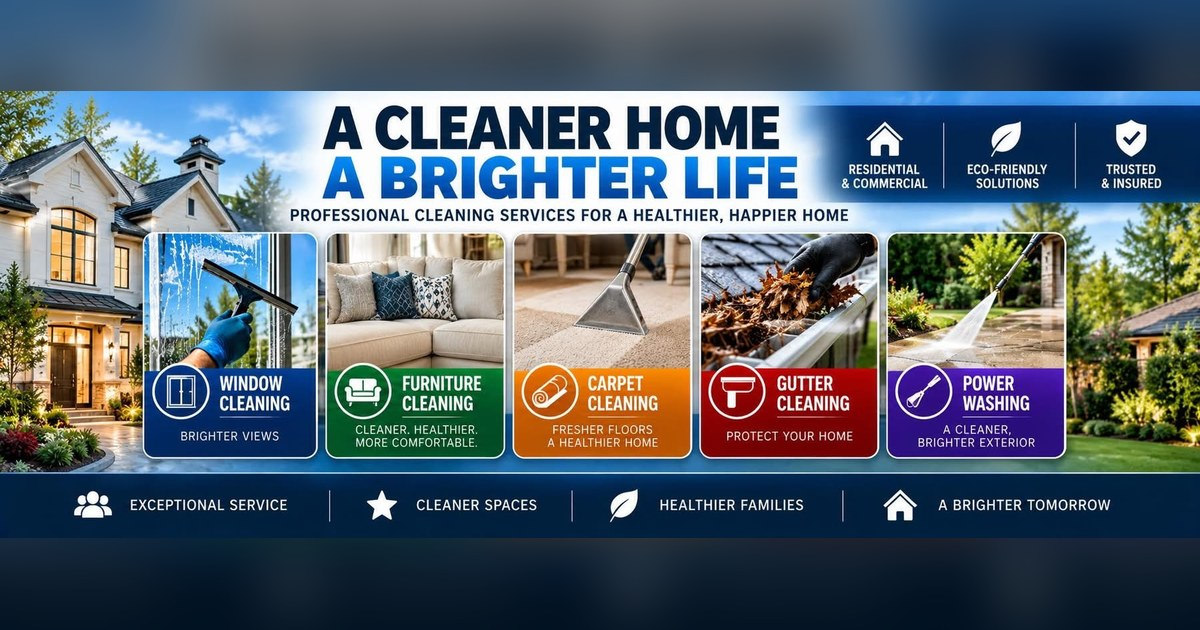
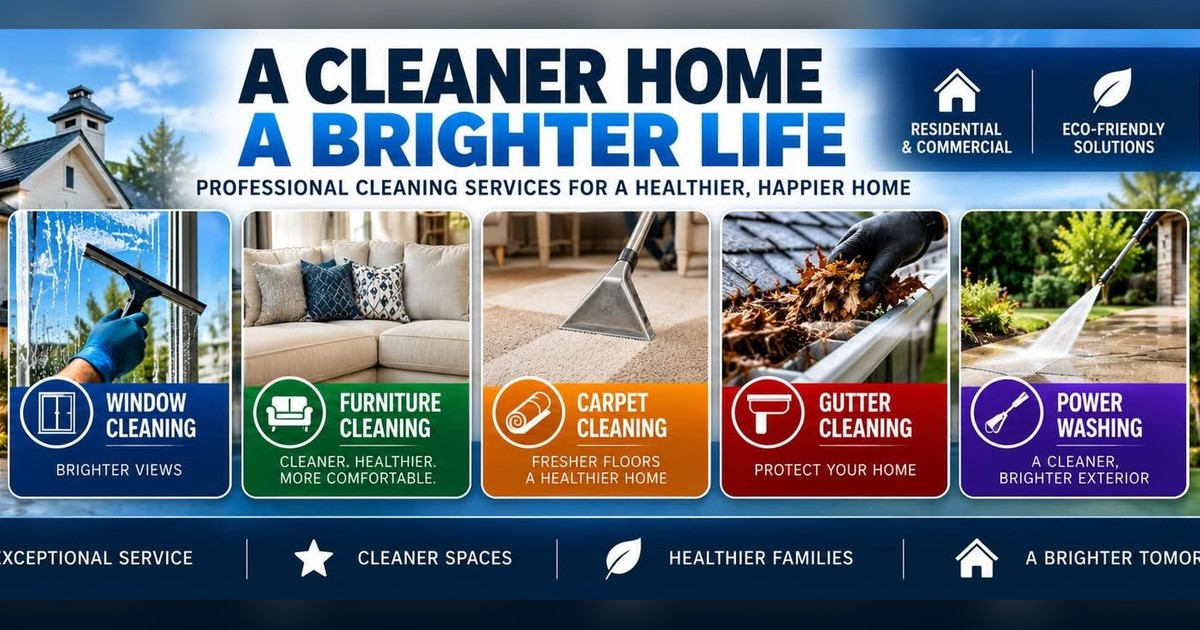
Home page link preview: zoomed in on the 5 service cards (owner's pick A)
Claude-Session: https://claude.ai/code/session_014X5TQR9pePy1xRWcMQ8UHT

diff --git a/CLAUDE.md b/CLAUDE.md
@@ -35,7 +35,7 @@ Read this first in any new chat about this site or the owner's ads.
   repo byte-for-byte and Netlify was linked to GitHub. The domain was not bought through Vercel.
 
 ## Link previews (Facebook, Messenger, texts)
-- Every page has Open Graph tags. Share picture `images/og-home.jpg` (1200x630: the owner's "A Cleaner Home, A Brighter Life" banner, fitted whole over a blurred copy of itself) on all pages except
+- Every page has Open Graph tags. Share picture `images/og-home.jpg` (1200x630: the owner's "A Cleaner Home, A Brighter Life" banner, zoomed on the 5 service cards, version A the owner picked) on all pages except
   `furniture-cleaning` and `sofa-cleaning-deal`, which use `images/og-sofa.jpg` (couch photo + FREE Fabric Protector).
 - The sofa page's share title/description name no price (Facebook visitors see $99, Google $129).
 - After changing a share picture, re-scrape in Facebook's Sharing Debugger or old previews stay cached.
